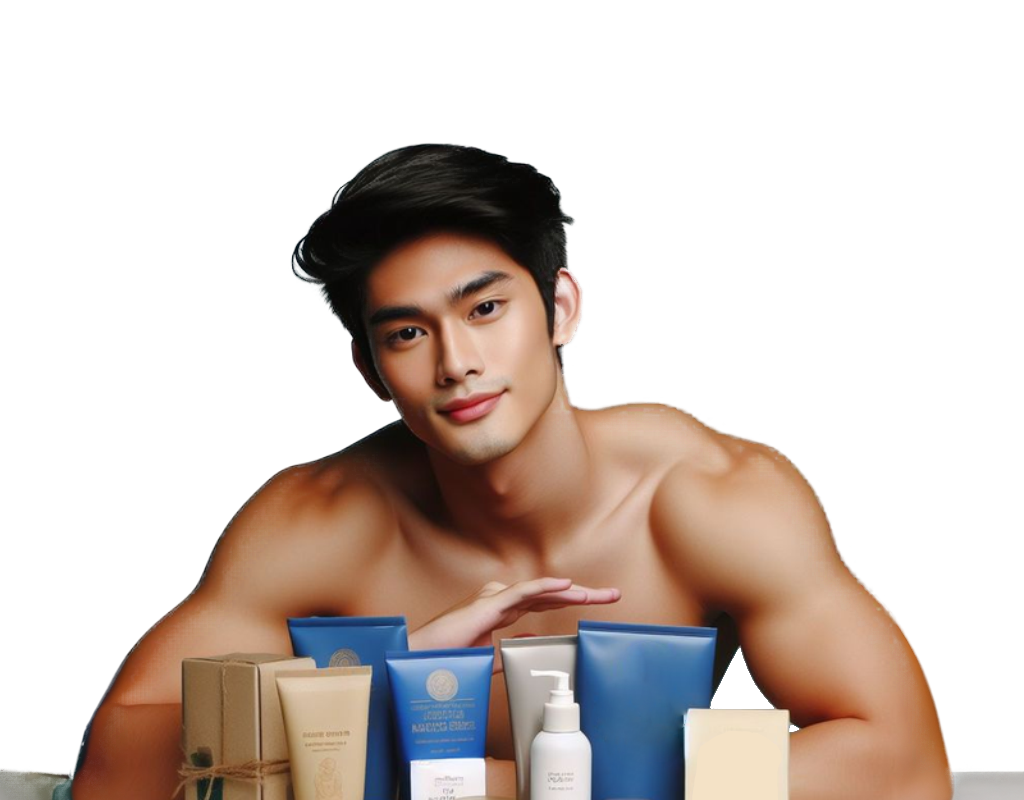
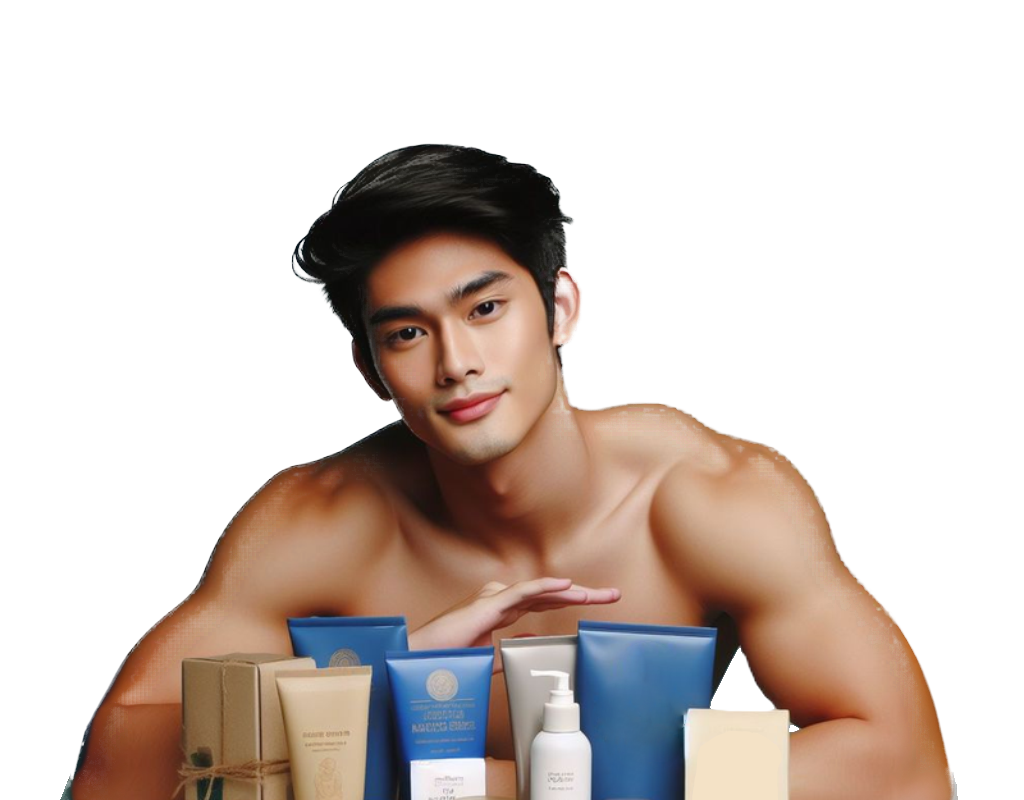
products update

diff --git a/products.html b/products.html
@@ -26,11 +26,10 @@
         </div>
 
     </header>
-    <section class="hero">
-        <div class="hero-content">
-            <h1>Welcome to <span class="highlight">Masculinique</span></h1>
-            <p>Where Refinement Meets Masculinity</p>
-            <a href="#" class="btn">Book Now</a>
+    <section class="product-here">
+        <div class="product-content">
+            <h1>Elevate Your Grooming Routine: 
+                Essential Skincare for Men</h1>
         </div>
         <div class="prodimage">
             <img src="./src/prodmodel.png" alt="">

diff --git a/style.css b/style.css
@@ -522,4 +522,24 @@ body {
 }
 
 
+/*Product area*/
+.product-here {
+    display: flex;
+    align-items: center; 
+    color: black;
+    padding: 15% ; 
+    padding-top: 50px;
+    padding-bottom: 0px;
+    padding-right: 260px;
+}
+.prodimage img{
+    width: 556.616px;
+    height: 431.142px;
+    flex-shrink: 0;
+}
+.product-content h1 {
+    font-family: "comfortaa", sans-serif;
+    color: #25297D;
+    font-size: 28px;
+}
 @media only screen and (max-width: 600px) 
